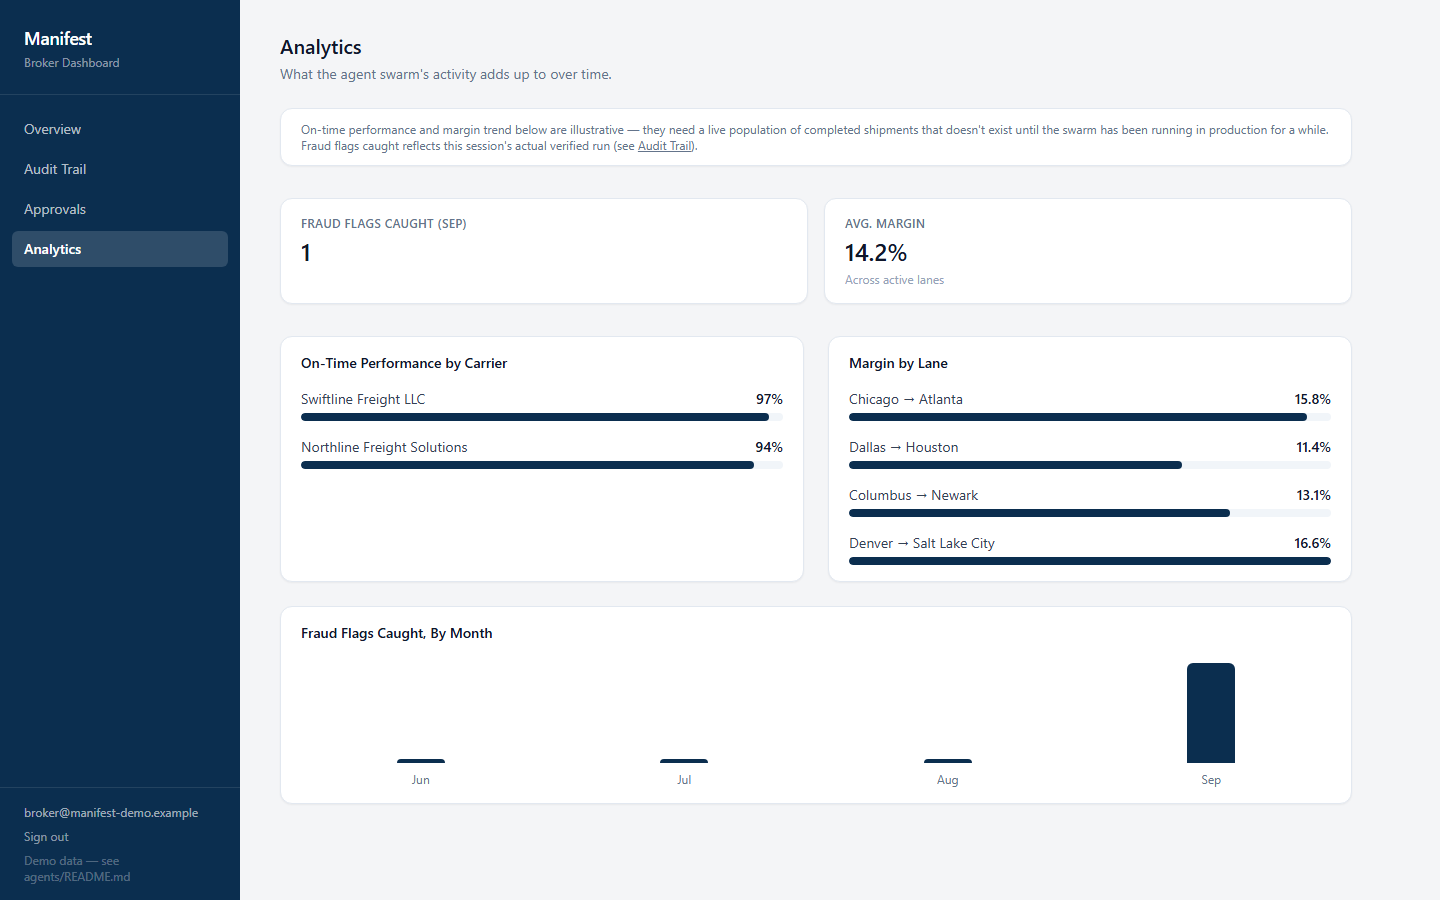
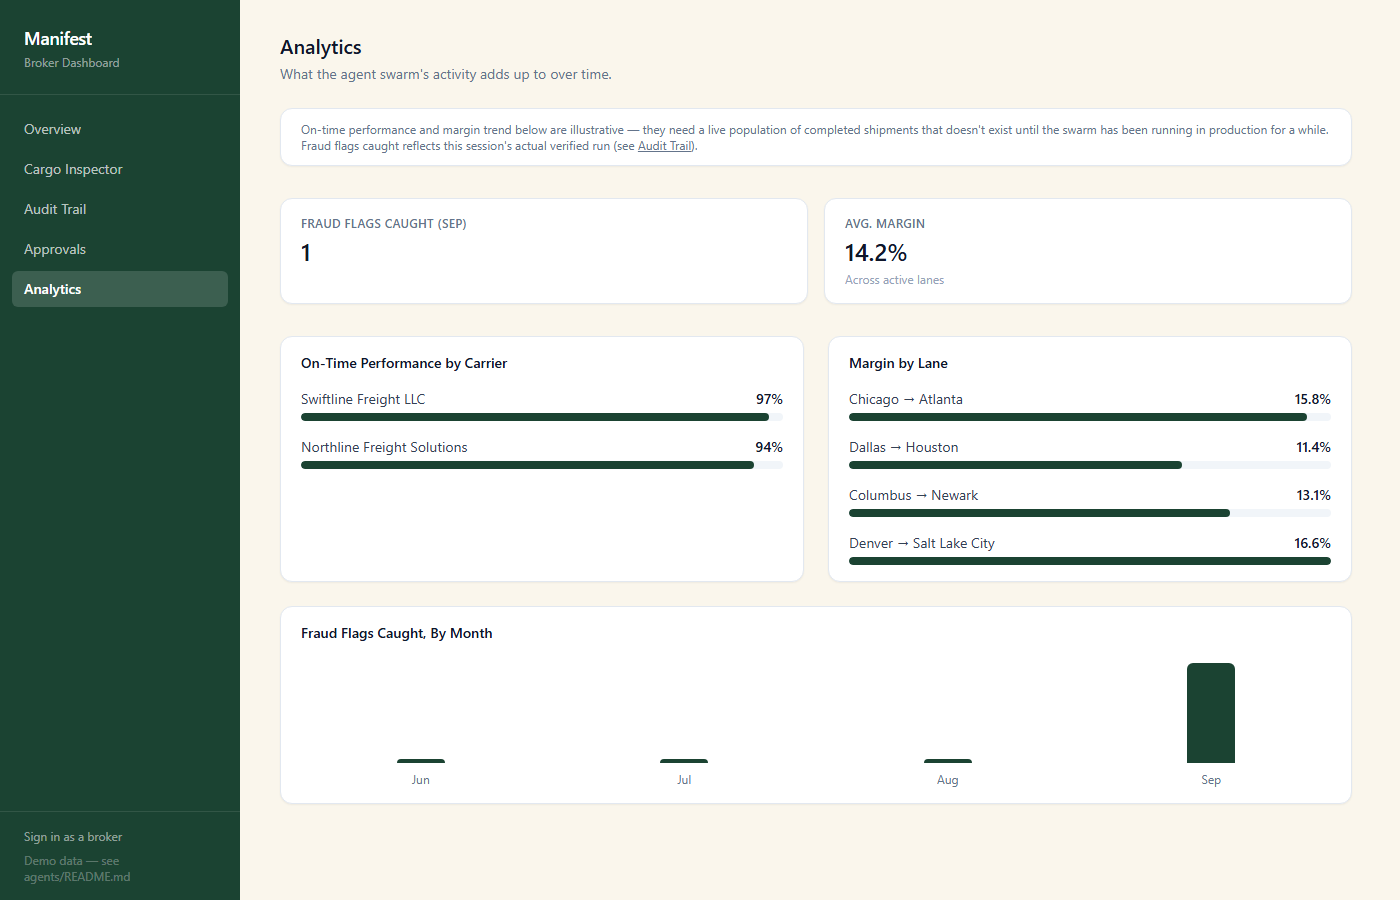
Update README for the open dashboard, landing page, and Cargo Inspector
Screenshots were stale (old navy theme, login-gated flow) and the top
summary still described the dashboard as requiring sign-in. Regenerated
every screenshot against the live rebranded site, added landing.png and
cargo-inspector.png, dropped login.png since Cognito is no longer the
front door.

diff --git a/README.md b/README.md
@@ -10,7 +10,7 @@ Built for the [Agents for Humans Hackathon](https://agentsforhumans.devpost.com/
 >
 > **Second, separate blocker found later:** Bedrock Mantle itself (the stand-in) stopped responding for this account partway through this session's testing — surfaced first as multi-turn tool-calling calls failing while single-turn calls kept working, which pointed at an API-path bug; three real fixes were tried (explicit client timeouts, a Mantle multi-turn compat model, switching Responses-API calls to Chat Completions — the last one a confirmed fix for an identical symptom on the vision model elsewhere in this project) before testing showed single-turn calls had *also* started failing identically, ruling out a code-level cause. Most plausibly a rate/quota ceiling from a full session of heavy Mantle usage across ten-plus agents. Classic Bedrock's block (above) is unchanged and unrelated — this is a second, distinct condition layered on top of it. Documented honestly in [agentcore-deploy/README.md](agentcore-deploy/README.md) rather than claimed-fixed; the underlying architecture was genuinely verified working before this appeared.
 >
-> **Live dashboard:** https://d3aw7wk0rjfln6.cloudfront.net — deployed to S3 + CloudFront via CDK, with real Amazon Cognito login (client-side gated — a static-export SPA has no server to enforce it, standard for this hosting model). Demo login: `broker@manifest-demo.example` / `ManifestDemo2026!`. Verified end to end with an actual headless-browser run against the live site: unauthenticated visits redirect to `/login`, real Cognito sign-in succeeds, direct navigation to a protected route while logged out redirects back. Populated with a real, verified snapshot of this session's agent runs (see the Audit Trail tab); not yet wired to a live backend feed.
+> **Live site:** https://d3aw7wk0rjfln6.cloudfront.net (also mirrored at http://manifest-freight-dashboard.s3-website-us-east-1.amazonaws.com for a URL that literally contains "manifest" — same build, plain S3 website hosting instead of CloudFront, so deep links there need the CDK-managed routing rules in [infra/lib/dashboard-hosting-stack.ts](infra/lib/dashboard-hosting-stack.ts) to resolve correctly). `/` is a public marketing landing page; `/dashboard` is the broker dashboard itself and needs no sign-in or sign-up to view — Amazon Cognito login still exists at `/login` (`broker@manifest-demo.example` / `ManifestDemo2026!`) for a personalized session, but nothing gates on it. `/cargo` replays a real, verified Cargo Condition Agent run with the exact damage regions it flagged highlighted live on the image. Verified end to end with headless-browser runs against the live site. Populated with a real, verified snapshot of this session's agent runs (see the Audit Trail tab); not yet wired to a live backend feed.
 
 ---
 
@@ -53,7 +53,7 @@ Each agent below is a distinct Strands agent with its own tools, its own model c
 | Customer Update Agent | Proactive shipper-facing status updates at milestones and real delays | working — verified drafting both a delay update (direct, no over-apologizing) and a delivered-milestone update (brief, positive) from real shipment data |
 | Playbook & Lane-History Agent | RAG over a Bedrock Knowledge Base of the broker's own historical loads and playbook notes | working (retrieval stand-in) — a real Bedrock Knowledge Base needs a working embedding model, which is blocked by the same account-wide quota gate (verified — Titan Embeddings fails identically to Claude/Nova). Standing in with deterministic keyword retrieval over the same source notes; verified both surfacing real precedent and honestly reporting "no precedent" rather than inventing one. Also wired into Carrier Vetting as a cross-agent integration — verified live pulling a carrier-specific blacklist note into a risk assessment |
 | Orchestrator Agent | Coordinates the swarm per active load; maintains state in AgentCore Memory; decides autonomous vs. human-review paths | working, **deployed live to Bedrock AgentCore Runtime as two separate runtimes** (Orchestrator + a standalone Carrier Vetting Agent runtime it delegates to over a real cross-runtime `InvokeAgentRuntime` call — genuine distributed multi-agent orchestration, not one process with many tools), **with real AgentCore Memory, tenant-scoped for genuine multi-tenant data isolation** (a broker-derived `actor_id` maps each tenant to its own AgentCore Memory namespace — see agentcore-deploy/README.md). Locally, chains Load-Matching → Carrier Vetting → [gate] → Rate Intelligence → Carrier Outreach; the gate is enforced in code, not a model's judgment — verified live on two carriers, both correctly escalated. AgentCore Memory persistence verified with two independent cloud calls where the second recalled a prior finding verbatim. One thing genuinely not resolved: live re-verification of the cross-runtime delegation hit Bedrock Mantle becoming unavailable for this account entirely (not just multi-turn calls, once tested further) — three real fixes attempted, none worked, root cause narrowed to a plausible rate/quota ceiling from heavy same-session usage rather than a code defect. Full story, including two other real bugs found and fixed along the way: [agentcore-deploy/README.md](agentcore-deploy/README.md) |
-| Broker Dashboard | The human-in-the-loop surface: active loads, audit trail, approvals queue, analytics | working — deployed at https://d3aw7wk0rjfln6.cloudfront.net with real Cognito login (verified via headless-browser test against the live site); populated from a real captured snapshot of agent runs, not yet live-wired to a backend |
+| Broker Dashboard | Public marketing site plus the human-in-the-loop surface: active loads, audit trail, approvals queue, analytics, a Cargo Inspector replay | working — deployed at https://d3aw7wk0rjfln6.cloudfront.net, open to view with no sign-in required (Cognito login still available at `/login` for a personalized session, verified via headless-browser test against the live site); populated from a real captured snapshot of agent runs, not yet live-wired to a backend |
 
 ---
 
@@ -89,10 +89,16 @@ The Orchestrator is deployed live to **Amazon Bedrock AgentCore Runtime** — no
 
 ## 5. Screenshots
 
-Live captures from the deployed dashboard (https://d3aw7wk0rjfln6.cloudfront.net) — not mockups.
+Live captures from the deployed site (https://d3aw7wk0rjfln6.cloudfront.net) — not mockups.
 
-**Overview** — active loads, pending approvals, and top-line stats:
+**Landing page** — the public front door, no sign-in required:
+![Landing page](docs/screenshots/landing.png)
+
+**Overview** — active loads, pending approvals, and top-line stats; open to view, no sign-in required:
 ![Dashboard overview](docs/screenshots/overview.png)
+
+**Cargo Inspector** — a replay of a real, verified Cargo Condition Agent run, with the exact damage regions it flagged highlighted live on the image:
+![Cargo Inspector](docs/screenshots/cargo-inspector.png)
 
 **Audit Trail** — every agent action with its full reasoning, including the fraud-detection finding on MC-1187765 (Carrier Vetting Agent), the cargo-condition discrepancy (Cargo Condition Agent), and the AgentCore Memory recall proof (Orchestrator):
 ![Audit trail](docs/screenshots/audit-trail.png)
@@ -103,8 +109,7 @@ Live captures from the deployed dashboard (https://d3aw7wk0rjfln6.cloudfront.net
 **Analytics** — fraud flags caught, margin by lane, on-time performance:
 ![Analytics](docs/screenshots/analytics.png)
 
-**Login** — real Amazon Cognito authentication, not a mock:
-![Login](docs/screenshots/login.png)
+Amazon Cognito login is still real and available at `/login` for brokers who want a personalized session — it just isn't required to view the dashboard.
 
 ---
 
